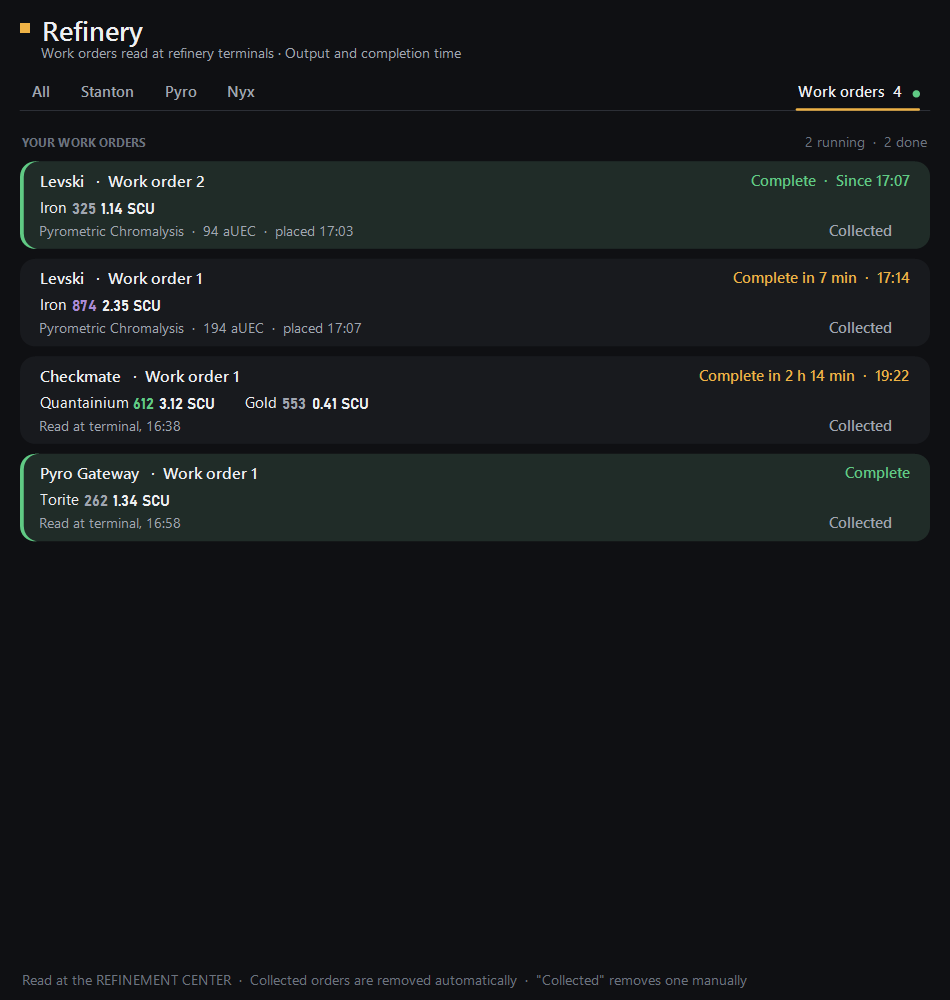
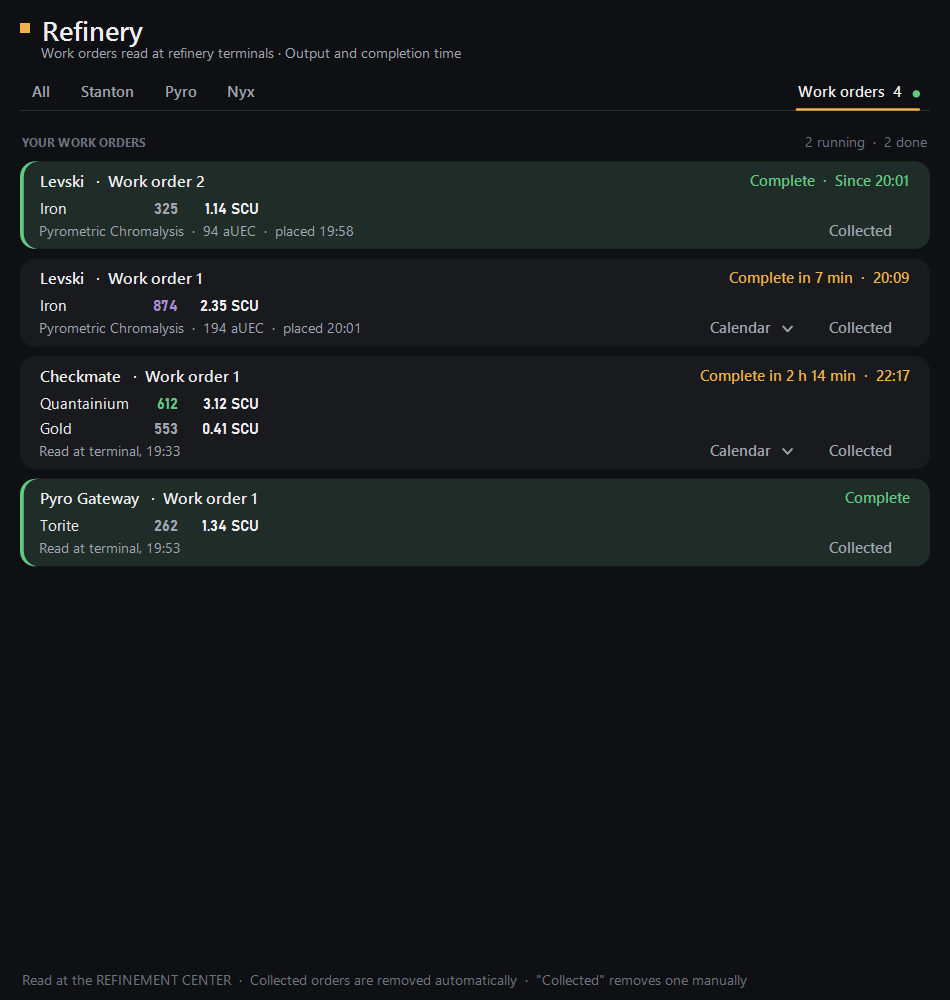
Bedrock 3.0.2: the news card, as approved on 11 November
The card's 3.0.2 block (the same words go to VERSION.txt, the release
notes and the page), version 3.0.2 in CMakeLists.txt and resource.h, the
READMEs for 3.0.2 (the Aaron Halo's calculator, contract titles, work
orders with a row for each material) and the README's picture of the work
orders in the new layout.

diff --git a/src/MinerGUI.cpp b/src/MinerGUI.cpp
@@ -16199,6 +16199,74 @@ void MinerGUI::drawWhatsNewCard(Gdiplus::Graphics& g, int cw, int ch) {
     // however softly put, turns that into a collection. The jar sits behind the
     // ? button and along the foot of the main window. Plain words, like a patch
     // note.
+    version(L"3.0.2", L"11 November");
+    group(L"NEW");
+    item(L"Gear");
+    note(L"A new page in the sidebar shows where to buy laser heads, modules and");
+    note(L"gadgets for your ship, with prices from UEX. Shops are listed nearest first,");
+    note(L"from where you are. Click a shop line to see every shop that sells it. Point");
+    note(L"at the i next to a gadget to see what it does.");
+    gap(6);
+    item(L"Aaron Halo");
+    note(L"Click the Aaron Halo in the Ore Finder for a calculator: it lists each band");
+    note(L"your quantum route reaches, with the distance left at which to leave");
+    note(L"quantum travel. It takes the route you plot in the star map, or pick From");
+    note(L"and To. Until you get there, the scan page shows the distance for the");
+    note(L"densest band on the way.");
+    gap(6);
+    item(L"Contract titles");
+    note(L"With \u201CShow them in the game\u2019s contracts\u201D ticked in Blueprints, contract");
+    note(L"titles in the game show how hard the contract is and what it brings: STD");
+    note(L"for Standing, AFF for Affinity, SEC, BH and HAUL for the Security, Bounty");
+    note(L"Hunting and Hauling careers, B&T for Wikelo\u2019s Barter & Trade. Hauls and");
+    note(L"deliveries show where they go. The description lists difficulty and");
+    note(L"reputation, and how many enemy ships come at once. You see it after the");
+    note(L"next start of Star Citizen.");
+    gap(6);
+    item(L"Star Citizen 4.10.3");
+    note(L"16 new blueprints, among them the Raider Camo armor, flight suit,");
+    note(L"cannons and Skarnov rifle, from InterSec\u2019s Vanduul Incursion contracts in");
+    note(L"Nyx.");
+    gap(6);
+    item(L"Suits");
+    note(L"The Ore Finder names the suit for the hot surfaces of Aberdeen, Arial and");
+    note(L"Pyro I (Pembroke) and the cold one of Pyro VI Terminus (Novikov).");
+    gap(6);
+    item(L"Backup");
+    note(L"Bedrock\u2019s backup now also takes the newest Blackbox backups of your");
+    note(L"keybinds, settings and characters. Restoring it brings them back.");
+    gap(10);
+    group(L"IMPROVED");
+    item(L"Refinery");
+    note(L"A station\u2019s workload keeps its colour however old the reading is: light");
+    note(L"green, moderate yellow, heavy orange, extreme red.");
+    gap(6);
+    item(L"Refinery work orders");
+    note(L"Each material has its own row with its quality and SCU, the best quality");
+    note(L"first. Orders with many materials no longer run off the card.");
+    gap(6);
+    item(L"Edit ship");
+    note(L"A new ship\u2019s name is selected, so typing replaces it.");
+    gap(10);
+    group(L"CHANGED");
+    item(L"Blueprints");
+    note(L"ENEMY SHIPS counts only hostile ships, no longer the cargo ship, the ship");
+    note(L"to refuel or the wreck to salvage. PARTY is gone: the game files don\u2019t say");
+    note(L"how many players can take a contract.");
+    gap(10);
+    group(L"FIXED");
+    item(L"Nyx gateways");
+    note(L"The gateways between Stanton and Nyx no longer show as Castra");
+    note(L"Gateway and Magnus Gateway, and after a jump from Nyx, Bedrock");
+    note(L"knows you\u2019re in Stanton.");
+    gap(6);
+    item(L"Edit ship");
+    note(L"The crafted bonus value no longer breaks in two at 110 % display scale.");
+    gap(6);
+    item(L"Linux");
+    note(L"Bedrock now also reads the older game logs in logbackups: blueprints");
+    note(L"from earlier sessions show as owned, and plugins see those sessions too.");
+    gap(10);
     version(L"3.0.1.2", L"8 November");
     note(L"Refinery: Work orders of an hour or more no longer show up twice, and");
     note(L"keep their method and cost.");

diff --git a/include/resource.h b/include/resource.h
@@ -10,8 +10,8 @@
 // wherever it is not 0.
 #define BEDROCK_VERSION_MAJOR 3
 #define BEDROCK_VERSION_MINOR 0
-#define BEDROCK_VERSION_PATCH 1
-#define BEDROCK_VERSION_BUILD 2
+#define BEDROCK_VERSION_PATCH 2
+#define BEDROCK_VERSION_BUILD 0
 
 #define BEDROCK_STR2(x) #x
 #define BEDROCK_STR(x) BEDROCK_STR2(x)

diff --git a/README.md b/README.md
@@ -6,7 +6,7 @@ made of, whether your laser can break it, where an ore is found and where it
 sells best, your refinery work orders, and your blueprints.
 
 It is free, needs no account and no installer, and runs on Windows and on
-Linux (AppImage, also SteamOS). Current version: 3.0.1.2, for Star Citizen 4.10.2.
+Linux (AppImage, also SteamOS). Current version: 3.0.2, for Star Citizen 4.10.3.
 
 **Download:** the [Releases](https://github.com/SC-Ravaxx/Bedrock/releases) page - on Windows,
 unzip it anywhere and start `Bedrock.exe`; on Linux, make the AppImage
@@ -29,6 +29,8 @@ executable and start it. The app tells you when a newer version is out.
 - **Ore Finder:** where an ore is found, what a rock of it usually holds, and
   where refined ore sells best right now (prices players report on
   [UEX](https://uexcorp.space)), next to your own trades from the game log.
+  Clicking the Aaron Halo in it opens a calculator: at which distance left to
+  leave quantum travel for each band.
 - **Gear:** the laser heads, modules and gadgets your ship takes, with the
   nearest shops that sell them and their prices from UEX.
 - **Refinery:** reads your work orders off the refinery terminal and shows
@@ -36,8 +38,9 @@ executable and start it. The app tells you when a newer version is out.
   players, so you can check a station before you fly there.
 - **Blueprints:** your blueprint library from the game log, every crafting
   recipe with what quality does to it, and the contracts that hand them out.
-  Optionally it marks contracts that pay out blueprints with `[BP]` in the
-  game's own contract list.
+  Optionally it writes into the game's own contract list: `[BP]` on
+  contracts that pay out blueprints, and on every contract how hard it is,
+  what it brings and where it goes.
 - **Refinery jobs to UEX (optional):** connect your UEX account and Bedrock
   adds the refinery jobs you start to it. Off unless you agree.
 - **UEX Datarunner (optional):** at a commodity terminal, Bedrock reads the
@@ -179,7 +182,7 @@ without it.
 
 ### Windows
 
-Use the versions `BUILDINFO.txt` names - for 3.0.1.2: Visual Studio 2022
+Use the versions `BUILDINFO.txt` names - for 3.0.2: Visual Studio 2022
 Build Tools with MSVC 19.44.35222 (toolset v143), Windows SDK 10.0.26100.0,
 CMake 3.31, and vcpkg; `vcpkg.json` pins every library to one vcpkg
 baseline, which vcpkg installs on its own when cmake runs.
@@ -265,12 +268,17 @@ Ticking "Show them in the game's contracts" in the Blueprints window makes
 Bedrock write `data\Localization\english\global.ini` beside the game's
 `Data.p4k`: the game's own text, taken out of `Data.p4k`, with `[BP]` on the
 titles of contracts that pay out blueprints and the blueprints listed under
-their descriptions (missing ones blue, owned ones plain). It is rewritten
-whenever the library changes, and again after a game patch; the game reads it
-at its next start. `user.cfg` gets `g_language = english` if it names no
-language. A language file that is not Bedrock's (a translation, a community
-pack) is left alone. Unticking the box deletes Bedrock's file and nothing
-else. See `include/GameTexts.h`.
+their descriptions (missing ones blue, owned ones plain). Every title also
+gets how hard the contract is and what it brings -
+`· Hard · 3,200 STD · 50 AFF` for Standing and Affinity, the Security, Bounty
+Hunting and Hauling careers as `SEC`, `BH` and `HAUL`, Wikelo's Barter & Trade
+as `B&T` - and a haul where it goes, the places filled in by the game; the
+description lists the difficulty, how many enemy ships come at once and the
+reputation. It is rewritten whenever the library changes, and again after a
+game patch; the game reads it at its next start. `user.cfg` gets
+`g_language = english` if it names no language. A language file that is not
+Bedrock's (a translation, a community pack) is left alone. Unticking the box
+deletes Bedrock's file and nothing else. See `include/GameTexts.h`.
 
 The box beside it, "Show class and grade in component names", puts the same
 file to a second use: each ship component's class, size and grade go before
